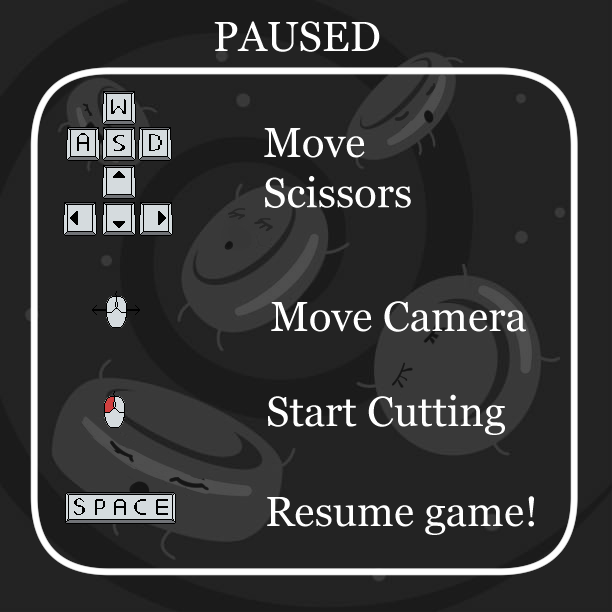
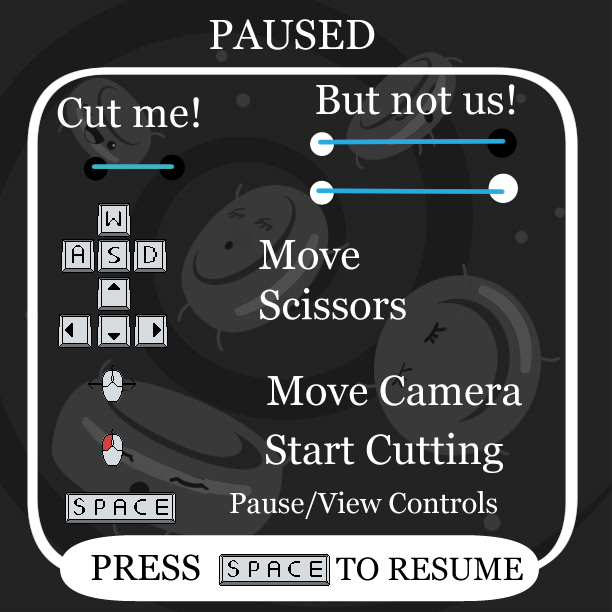
Made some graphical changes to splash screens etc, changed database in prep for release

diff --git a/static/assets/scripts/TransitionManager.js b/static/assets/scripts/TransitionManager.js
@@ -11,31 +11,18 @@ class TransitionManager
 		this.blocker = scene.add.rectangle((this.scene.width)/2, this.scene.height/2, this.scene.width, this.scene.height, 0x000000).setVisible(false);
 		this.blocker.setDepth(1001);
 		
-		this.transitionText = scene.add.text((this.scene.width)/2, h/2, "Good job! Onto the next level!", { fontFamily: 'Georgia, "Goudy Bookletter 1911", Times, serif' }).setVisible(false);		
+		this.transitionText = scene.add.text((this.scene.width)/2, h/2.7, (this.scene.level.levelRecord.number - 1).toString(), { fontFamily: 'Georgia, "Goudy Bookletter 1911", Times, serif', fontSize:100}).setVisible(false);		
 		this.transitionText.setDepth(1002);
 		this.transitionText.setOrigin(0.5);	
 		
-		this.continueText = scene.add.text((this.scene.width)/2, 2*(h/3), "Press the spacebar to continue.", { fontFamily: 'Georgia, "Goudy Bookletter 1911", Times, serif' }).setVisible(false);		
-		this.continueText.setOrigin(0.5);
-		this.continueText.setDepth(1002);	
-		
 		this.pauseScreen = scene.pauseScreen;
-		
-		this.restartText = scene.add.text((this.scene.width)/2, 2*(h/3), "HOLD AND RELEASE the spacebar to restart the game.", { fontFamily: 'Georgia, "Goudy Bookletter 1911", Times, serif' }).setVisible(false);		
-		this.restartText.setOrigin(0.5);
-		this.restartText.setDepth(1002);
+		this.openingScreen = scene.openingScreen;
+		this.gameOverScreen = scene.gameOverScreen;
+		this.transitionScreen = scene.transitionScreen;
 		
 		this.openingText = scene.add.text((this.scene.width)/2, h/2, [">Cut the vessels with two black ends to beat the level.", ">Ignore the vessels with two white ends.", ">Use the mouse to move the camera.",">Use the arrow keys or WASD to move the cursor.", ">Click the left mouse button and hold it to draw a cutting path.", ">Release the left mouse button to cut along the path!","This first level will be untimed, so you can get used to it."], { fontFamily: 'Georgia, "Goudy Bookletter 1911", Times, serif' }).setVisible(false).setAlign("center");		
 		this.openingText.setDepth(1002);
-		this.openingText.setOrigin(0.5);
-		
-		this.beginText = scene.add.text((this.scene.width)/2, 2*(h/3), "Press the spacebar to begin playing!", { fontFamily: 'Georgia, "Goudy Bookletter 1911", Times, serif' }).setVisible(false);		
-		this.beginText.setOrigin(0.5);
-		this.beginText.setDepth(1002);		
-		
-		this.warningText = scene.add.text((this.scene.width)/2, (2*(h/3)) + 20, "Now the timer is enabled and mistakes are punished! Watch out!", { fontFamily: 'Georgia, "Goudy Bookletter 1911", Times, serif' , color:'#ff0000'}).setVisible(false);		
-		this.warningText.setOrigin(0.5);
-		this.warningText.setDepth(1002);	
+		this.openingText.setOrigin(0.5);	
 
 		this.gameOver = false; //becomes true when the game is restarting.
 
@@ -78,30 +65,22 @@ class TransitionManager
 	
 		if (mode == 'opening')
 		{
-			this.beginText.setVisible(true);
-			this.openingText.setVisible(true);
+			this.openingScreen.setVisible(true);
 		}
 		
 		else if (mode == "transition")
 		{
-			this.continueText.setVisible(true);
+			this.transitionText.setText((this.scene.level.levelRecord.number - 1).toString())
+			this.transitionScreen.setVisible(true);
 			this.transitionText.setVisible(true);
-			
-			if(this.scene.level.levelRecord.number == tutLevels + 1)
-			{
-				//if the tutorial levels are over, this message will display to warn the user.
-				this.warningText.setVisible(true);
-			}
 		} 
 		
 		else if (mode == "end")
 		{
 			this.gameOver = true;
-			this.gameOverText = this.scene.add.text((this.scene.width)/2, (h/2), ["GAME OVER","","You completed " + (this.scene.level.levelRecord.number - 1).toString() + " levels.","Thank you for playing!"], { fontFamily: 'Georgia, "Goudy Bookletter 1911", Times, serif' });		
-			this.gameOverText.setOrigin(0.5);
-			this.gameOverText.setDepth(1002);	
-			this.gameOverText.setAlign("center");
-			this.restartText.setVisible(true);
+			this.gameOverScreen.setVisible(true);
+			this.transitionText.setText((this.scene.level.levelRecord.number - 1).toString())
+			this.transitionText.setVisible(true);
 		}
 		
 		else
@@ -117,12 +96,12 @@ class TransitionManager
 		console.log("game resumed");
 		
 		this.blocker.setVisible(false);
-		this.continueText.setVisible(false);
 		this.transitionText.setVisible(false);
-		this.beginText.setVisible(false);
 		this.pauseScreen.setVisible(false);
+		this.gameOverScreen.setVisible(false);
+		this.transitionScreen.setVisible(false);
+		this.openingScreen.setVisible(false);
 		this.openingText.setVisible(false);
-		this.warningText.setVisible(false);
 		this.scene.timer.Unpause();
 		this.active = false;
 		}
@@ -137,6 +116,7 @@ class TransitionManager
 		this.scene.level.generate();
 		this.scene.cutCursor.vessels = this.scene.level.bloodVessels;
 		this.scene.fovText.setText("Camera size: " + this.scene.camera.size);
+		this.scene.practiceText.setText(["PRACTICE","LEVEL","(UNTIMED)"]);
 		this.scene.levelText.setText(["Levels" , "completed: " + (this.scene.level.levelRecord.number - 1)])
 		if (newGame == false) {this.Begin("transition")};	//congratulates player and pauses the game until they press 'P'
 	}
@@ -144,7 +124,7 @@ class TransitionManager
 	RestartCheck()
 	{
 		console.log("duration" + this.scene.keyManager.Space.duration.toString())
-		if (this.scene.keyManager.Space.duration >= 1000) //if space key has been held for long enough
+		if (this.scene.keyManager.Space.duration >= 500) //if space key has been held for over half a second
 		{
 			this.RestartGame();
 		}
@@ -154,8 +134,8 @@ class TransitionManager
 	{
 		console.log("restarting game");
 		//sets everything back to initial state so game can be restarted.
-		this.gameOverText.setVisible(false);
-		this.restartText.setVisible(false);
+		this.gameOverScreen.setVisible(false);
+		this.transitionText.setVisible(false);
 		this.scene.transitionManager.Transition(true); //dumps last level.
 		this.scene.timer.sessionTime = 0;
 		this.scene.level.levelRecord.number = 1;	//sets level number back to 1.

diff --git a/templates/pages/BloodVesselGame.html b/templates/pages/BloodVesselGame.html
@@ -57,6 +57,10 @@
 		this.load.image('pausescreen', '/static/assets/images/pausescreen.png')
 		this.load.image('scissorsopen','/static/assets/images/scissorsopen.png');
 		this.load.image('scissorsclosed','/static/assets/images/scissorsclosed.png');
+		this.load.image('Transition','/static/assets/images/Transition.png');
+		this.load.image('Opening','/static/assets/images/Opening.png');
+		this.load.image('GameOver','/static/assets/images/GameOver.png');
+		this.load.image('Spacebar', '/static/assets/images/spacebar.png');
 		
 		//loading global variables
 		this.load.script('s_globals','/static/assets/scripts/Globals.js');
@@ -96,9 +100,19 @@
 		
 		console.log("session ID : " + this.sessionID)		
 
-		this.backgroundImage = this.add.image(w/2, h/2, 'blood');	//the background image displayed throughout	//GRAPHICSd
+		this.backgroundImage = this.add.image(w/2, h/2, 'blood');	//the background image displayed throughout	//GRAPHICS
 		this.pauseScreen = this.add.image(w/2,h/2,'pausescreen').setVisible(false); //pause screen image
 		this.pauseScreen.setDepth(1002);
+		this.gameOverScreen = this.add.image(w/2,h/2,'GameOver').setVisible(false); //pause screen image
+		this.gameOverScreen.setDepth(1002);
+		this.transitionScreen = this.add.image(w/2,h/2,'Transition').setVisible(false); //pause screen image
+		this.transitionScreen.setDepth(1002);
+		this.openingScreen = this.add.image(w/2,h/2,'Opening').setVisible(false); //pause screen image
+		this.openingScreen.setDepth(1002);
+		
+		this.spaceGraphic = this.add.image(w + c/2, h - h/6, 'Spacebar');
+		this.spaceGraphic.setDepth(1002);
+		this.spaceText = this.add.text(w + c/2, h - h/8, ["PAUSE / CONTROLS"], {fontFamily: 'Georgia, "Goudy Bookletter 1911", Times, serif', fontSize:15}).setOrigin(0.5)
 		
 		this.scissorsOpen = this.add.image(w/2 - 25,h/2 + 25,'scissorsopen').setVisible(false);
 		this.scissorsClosed = this.add.image(w/2 - 25,h/2 + 25,'scissorsclosed')
@@ -132,10 +146,11 @@
 						this.screenBlocker.setVisible(false); //debug, reveals whole screen if noBlocker is true in globals
 				}
 		
-		this.timerText = this.add.text(this.width + 10, h/5, "Time Left: " + this.timer.GetTimeLeft(), { fontFamily: 'Georgia, "Goudy Bookletter 1911", Times, serif' });			// UI
-		this.mistakeText = this.add.text(this.width + 10, 2*h/5, "Mistakes: " + this.level.levelRecord.mistakenCuts, { fontFamily: 'Georgia, "Goudy Bookletter 1911", Times, serif' });	//
-		this.fovText = this.add.text(this.width + 10, 3*h/5, "Camera size: " + this.camera.size, { fontFamily: 'Georgia, "Goudy Bookletter 1911", Times, serif' });	//
-		this.levelText = this.add.text(this.width + 10, 4*h/5,["Levels" , "completed: " + (this.level.levelRecord.number - 1)],  {fontFamily: 'Georgia, "Goudy Bookletter 1911", Times, serif', align : "center"});
+		this.timerText = this.add.text(w + c/2, h/7, "Time Left: " + this.timer.GetTimeLeft(), { fontFamily: 'Georgia, "Goudy Bookletter 1911", Times, serif' }).setOrigin(0.5);			// UI
+		this.mistakeText = this.add.text(w + c/2, 2*h/7, "Mistakes: " + this.level.levelRecord.mistakenCuts, { fontFamily: 'Georgia, "Goudy Bookletter 1911", Times, serif' }).setOrigin(0.5);	//
+		this.fovText = this.add.text(w + c/2, 3*h/7, "Camera size: " + this.camera.size, { fontFamily: 'Georgia, "Goudy Bookletter 1911", Times, serif' }).setOrigin(0.5);	//
+		this.levelText = this.add.text(w + c/2, 4*h/7,["Levels" , "completed: " + (this.level.levelRecord.number - 1)],  {fontFamily: 'Georgia, "Goudy Bookletter 1911", Times, serif', align : "center"}).setOrigin(0.5);
+		this.practiceText = this.add.text(w + c/2, 5*h/7,["PRACTICE" , "LEVEL", "(UNTIMED)"],  {fontFamily: 'Georgia, "Goudy Bookletter 1911", Times, serif', align : "center"}).setOrigin(0.5);
 		this.penaltyMarker = this.add.text(this.timerText.x, this.timerText.y + 20, "-" + (mistakePenalty*clockTick)/1000,{fontFamily: 'Georgia, "Goudy Bookletter 1911", Times, serif', color:'#ff0000'}).setVisible(false) //shows penalty number on UI panel
 
 		this.idleTracker = new idleTracker(this); //tracks how long the mouse and keys have been idle.
@@ -173,6 +188,13 @@
 			this.timerText.setText("Time Left: " + Phaser.Math.RoundTo(this.timer.GetTimeLeft(),0));
 			this.mistakeText.setText("Mistakes: " + this.level.levelRecord.mistakenCuts);
 
+		}
+		
+		if (this.level.levelRecord.number == tutLevels + 1)
+		{
+			//if the real game has started
+			
+			this.practiceText.setText(["COUNTDOWN","STARTED!"])
 		}
 	}
 		

diff --git a/main.py b/main.py
@@ -40,7 +40,7 @@ def dbwrite():
     jsonString = json.dumps(request.json)
     dbDict = json.loads(jsonString)
     print(dbDict)
-    ref = db.collection("results").add(dbDict) 
+    ref = db.collection("trueResults").add(dbDict) 
     respDict = {"wrote":True} #Just sends a token response back to the frontend to keep it happy
     return jsonify(respDict)
 
@@ -54,7 +54,7 @@ def dbfeedback():
 
     dbDict = request.form.to_dict()
     
-    ref = db.collection("feedback").add(dbDict) 
+    ref = db.collection("trueFeedback").add(dbDict) 
     respDict = {"wrote":True} #Just sends a token response back to the frontend to keep it happy
     return render_template("pages/read_form.html")
 
